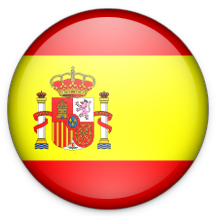
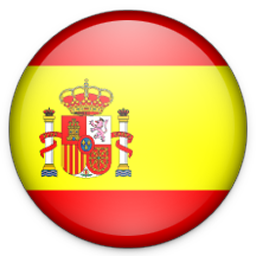
Mejora de estilo al seleccionar bandera

diff --git a/src/pages/config/config.ts b/src/pages/config/config.ts
@@ -1,4 +1,4 @@
-import { Component } from '@angular/core';
+import { Component, ElementRef, ViewChild } from '@angular/core';
 import { NavController, NavParams } from 'ionic-angular';
 //PAGES
 import { HomePage } from '../home/home';
@@ -10,6 +10,12 @@ import { text } from '../../assets/data/language_package';
   templateUrl: 'config.html',
 })
 export class ConfigPage {
+  @ViewChild('flag_es') flag_es:ElementRef;
+  @ViewChild('flag_en') flag_en:ElementRef;
+  @ViewChild('flag_ru') flag_ru:ElementRef;
+  @ViewChild('flag_de') flag_de:ElementRef;
+  @ViewChild('flag_fr') flag_fr:ElementRef;
+  @ViewChild('flag_pt') flag_pt:ElementRef;
 
   //SPINNER
   mostrarSpinner:boolean = false;
@@ -39,12 +45,59 @@ export class ConfigPage {
 
   selectLanguage(selection:string){
     switch(selection){
-      case "es": this.language = text.language.es; break;
-      case "en": this.language = text.language.en; break;
-      case "ru": this.language = text.language.ru; break;
-      case "de": this.language = text.language.de; break;
-      case "fr": this.language = text.language.fr; break;
-      case "pt": this.language = text.language.pt; break;
+      case "es":  this.language = text.language.es;
+                  this.flag_es.nativeElement.className = 'flag flag_selected';
+                  this.flag_en.nativeElement.className = 'flag';
+                  this.flag_ru.nativeElement.className = 'flag';
+                  this.flag_de.nativeElement.className = 'flag';
+                  this.flag_fr.nativeElement.className = 'flag';
+                  this.flag_pt.nativeElement.className = 'flag';
+                  break;
+
+      case "en":  this.language = text.language.en;
+                  this.flag_es.nativeElement.className = 'flag';
+                  this.flag_en.nativeElement.className = 'flag flag_selected';
+                  this.flag_ru.nativeElement.className = 'flag';
+                  this.flag_de.nativeElement.className = 'flag';
+                  this.flag_fr.nativeElement.className = 'flag';
+                  this.flag_pt.nativeElement.className = 'flag';
+                  break;
+
+      case "ru":  this.language = text.language.ru;
+                  this.flag_es.nativeElement.className = 'flag';
+                  this.flag_en.nativeElement.className = 'flag';
+                  this.flag_ru.nativeElement.className = 'flag flag_selected';
+                  this.flag_de.nativeElement.className = 'flag';
+                  this.flag_fr.nativeElement.className = 'flag';
+                  this.flag_pt.nativeElement.className = 'flag';
+                  break;
+
+      case "de":  this.language = text.language.de;
+                  this.flag_es.nativeElement.className = 'flag';
+                  this.flag_en.nativeElement.className = 'flag';
+                  this.flag_ru.nativeElement.className = 'flag';
+                  this.flag_de.nativeElement.className = 'flag flag_selected';
+                  this.flag_fr.nativeElement.className = 'flag';
+                  this.flag_pt.nativeElement.className = 'flag';
+                  break;
+
+      case "fr":  this.language = text.language.fr;
+                  this.flag_es.nativeElement.className = 'flag';
+                  this.flag_en.nativeElement.className = 'flag';
+                  this.flag_ru.nativeElement.className = 'flag';
+                  this.flag_de.nativeElement.className = 'flag';
+                  this.flag_fr.nativeElement.className = 'flag flag_selected';
+                  this.flag_pt.nativeElement.className = 'flag';
+                  break;
+
+      case "pt":  this.language = text.language.pt;
+                  this.flag_es.nativeElement.className = 'flag';
+                  this.flag_en.nativeElement.className = 'flag';
+                  this.flag_ru.nativeElement.className = 'flag';
+                  this.flag_de.nativeElement.className = 'flag';
+                  this.flag_fr.nativeElement.className = 'flag';
+                  this.flag_pt.nativeElement.className = 'flag flag_selected';
+                  break;
     }
   }
 

diff --git a/src/pages/config/config.html b/src/pages/config/config.html
@@ -7,24 +7,25 @@
 
   <div *ngIf="!mostrarSpinner">
 
-    <!-- MAIN TITLE -->
     <div>
       <ion-item class="language_selected" no-lines>
         <!-- BACK BUTTON -->
         <button class="back_button" ion-button item-left color="secondary" (click)="back()">
           <ion-icon name="md-arrow-round-back"></ion-icon>
         </button>
+        <!-- MAIN TITLE -->
         <ion-label text-center>{{language.name}}</ion-label>
       </ion-item>
     </div>
+    
     <!-- FLAGS -->
     <div class="flags_container">
-      <img class="flag" src="assets/imgs/flags/es.png" alt="" (click)="selectLanguage('es')">
-      <img class="flag" src="assets/imgs/flags/en.png" alt="" (click)="selectLanguage('en')">
-      <img class="flag" src="assets/imgs/flags/ru.png" alt="" (click)="selectLanguage('ru')">
-      <img class="flag" src="assets/imgs/flags/de.png" alt="" (click)="selectLanguage('de')">
-      <img class="flag" src="assets/imgs/flags/fr.png" alt="" (click)="selectLanguage('fr')">
-      <img class="flag" src="assets/imgs/flags/pt.png" alt="" (click)="selectLanguage('pt')">
+      <img #flag_es class="flag flag flag_selected" src="assets/imgs/flags/es.png" alt="" (click)="selectLanguage('es')">
+      <img #flag_en class="flag" src="assets/imgs/flags/en.png" alt="" (click)="selectLanguage('en')">
+      <img #flag_ru class="flag" src="assets/imgs/flags/ru.png" alt="" (click)="selectLanguage('ru')">
+      <img #flag_de class="flag" src="assets/imgs/flags/de.png" alt="" (click)="selectLanguage('de')">
+      <img #flag_fr class="flag" src="assets/imgs/flags/fr.png" alt="" (click)="selectLanguage('fr')">
+      <img #flag_pt class="flag" src="assets/imgs/flags/pt.png" alt="" (click)="selectLanguage('pt')">
     </div>
   </div>
 

diff --git a/src/pages/config/config.scss b/src/pages/config/config.scss
@@ -17,11 +17,17 @@ page-config {
     display: flex;
     justify-content: center;
     align-items: center;
+    padding-bottom: 5px;
   }
 
   .flag{
     height: 50px;
     width: 50px;
+  }
+
+  .flag_selected{
+    padding-left:2.5px; padding-right:2.5px; 
+    border-bottom: 5px solid rgb(50, 129, 34);
   }
 
   .map-full-card-content {
